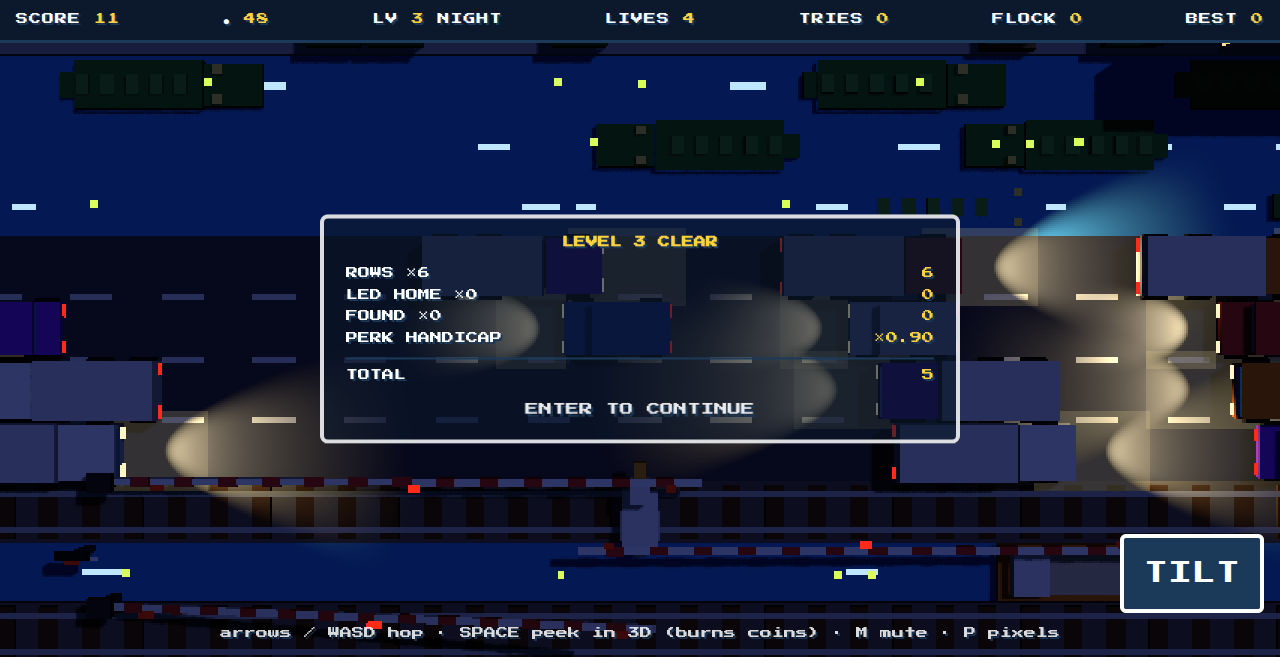
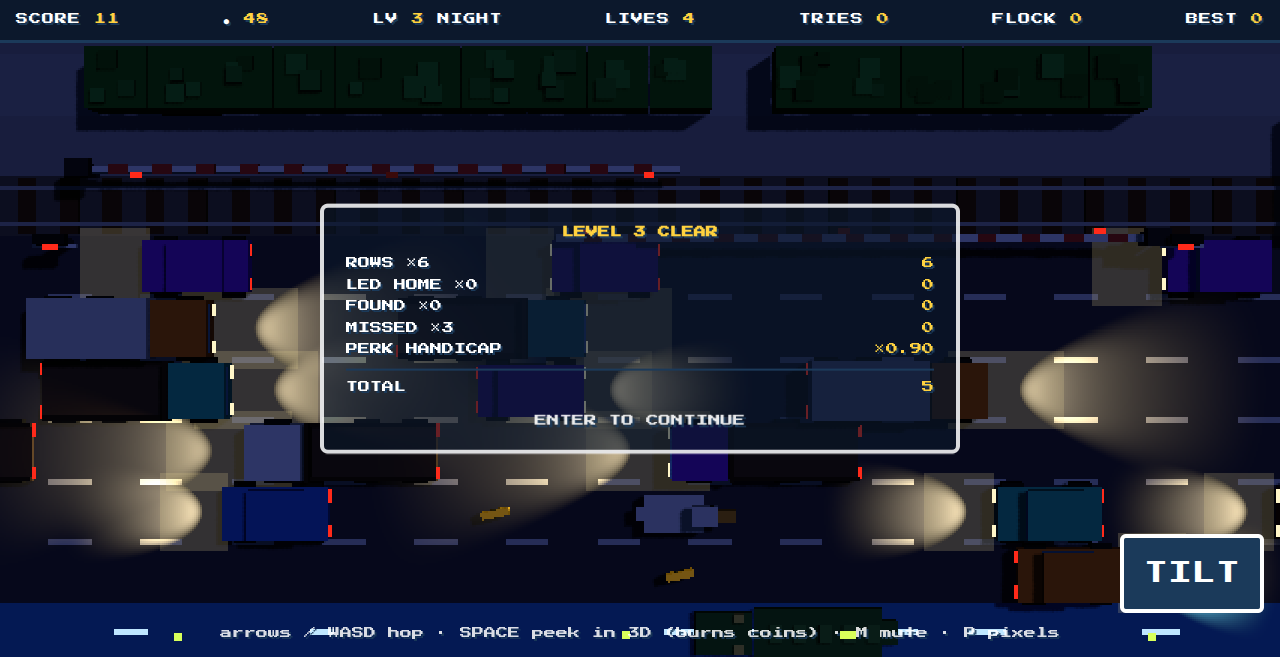
Meadow rows behind the start line so the tilted view has ground behind the player

diff --git a/src/world.js b/src/world.js
@@ -27,7 +27,10 @@ export class World {
     this.rows.clear();
   }
 
-  ensure(upTo) { while (this.nextRow <= upTo) this.addRow(this.nextRow++); }
+  ensure(upTo) {
+    if (!this.backfilled) { this.backfilled = true; for (let r = -1; r >= -12; r--) this.addRow(r, SCENARIOS[INTRO]); }
+    while (this.nextRow <= upTo) this.addRow(this.nextRow++);
+  }
 
   cull(below) {
     for (const [r, lane] of this.rows) if (r < below) { this.scene.remove(lane.group); this.rows.delete(r); }
@@ -99,8 +102,9 @@ export class World {
     return this.queue.shift();
   }
 
-  addRow(r) {
-    const spec = this.nextSpec(r);
+  // Rows behind the start are plain meadow so the tilted view has ground behind the player.
+  addRow(r, filler = null) {
+    const spec = filler ? { scenario: filler, index: 0, count: 1 } : this.nextSpec(r);
     const lane = new Lane(r, spec.scenario, this);
     spec.scenario.build(lane, {
       world: this, index: spec.index, count: spec.count, prev: this.rows.get(r - 1),
